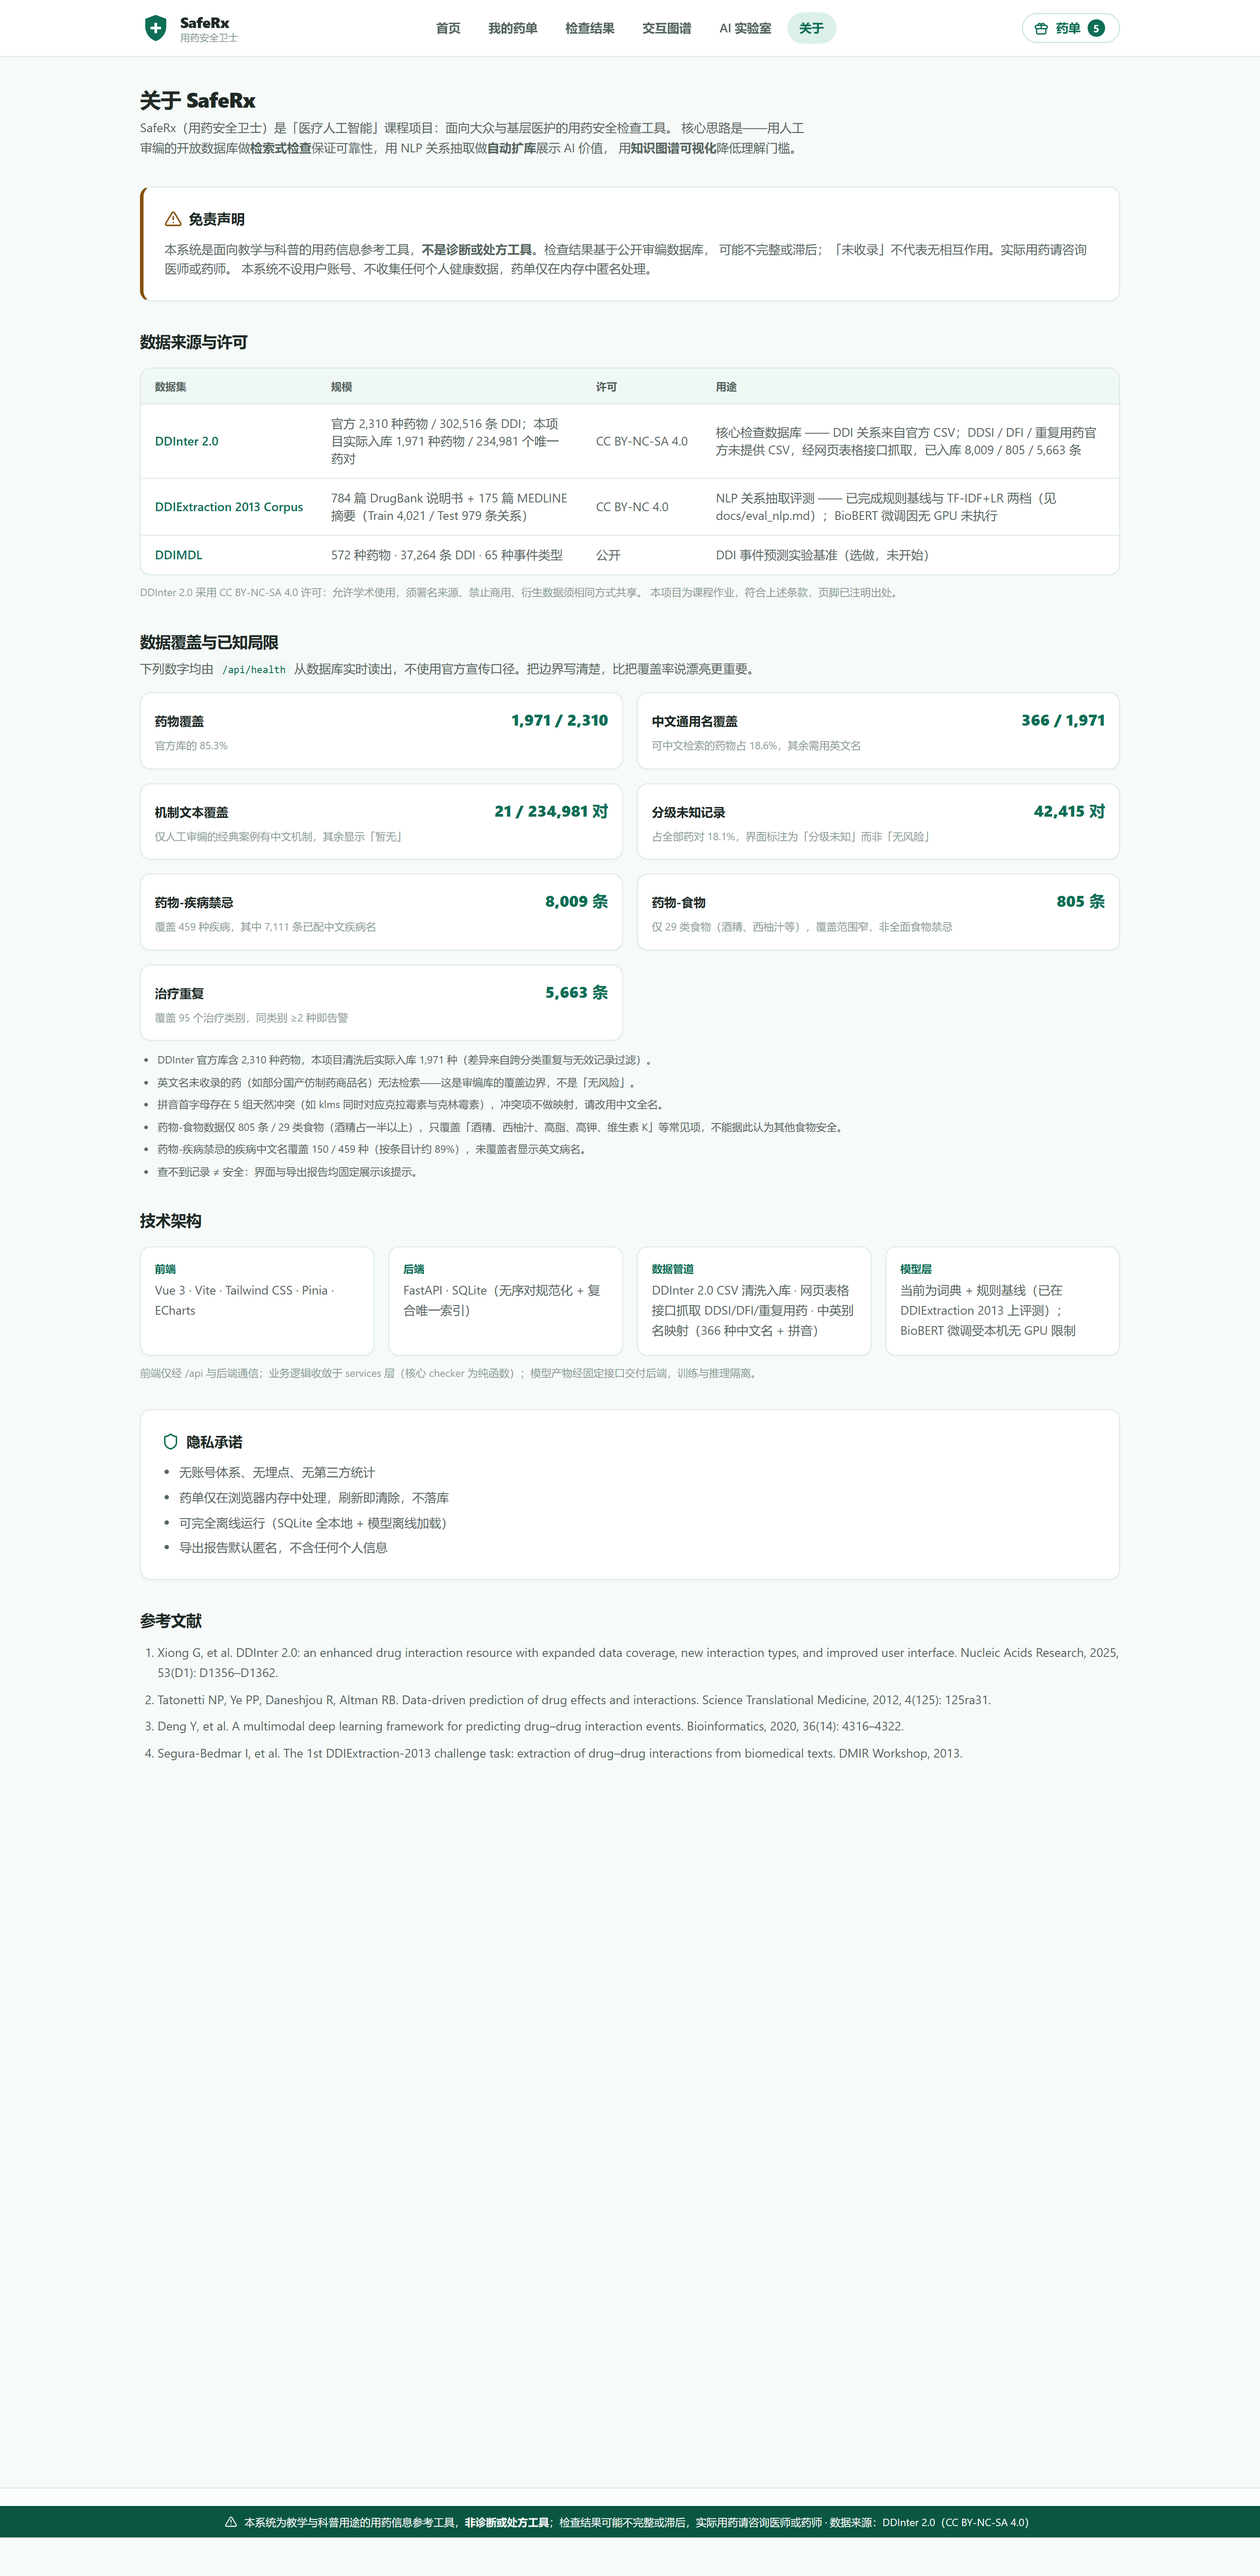
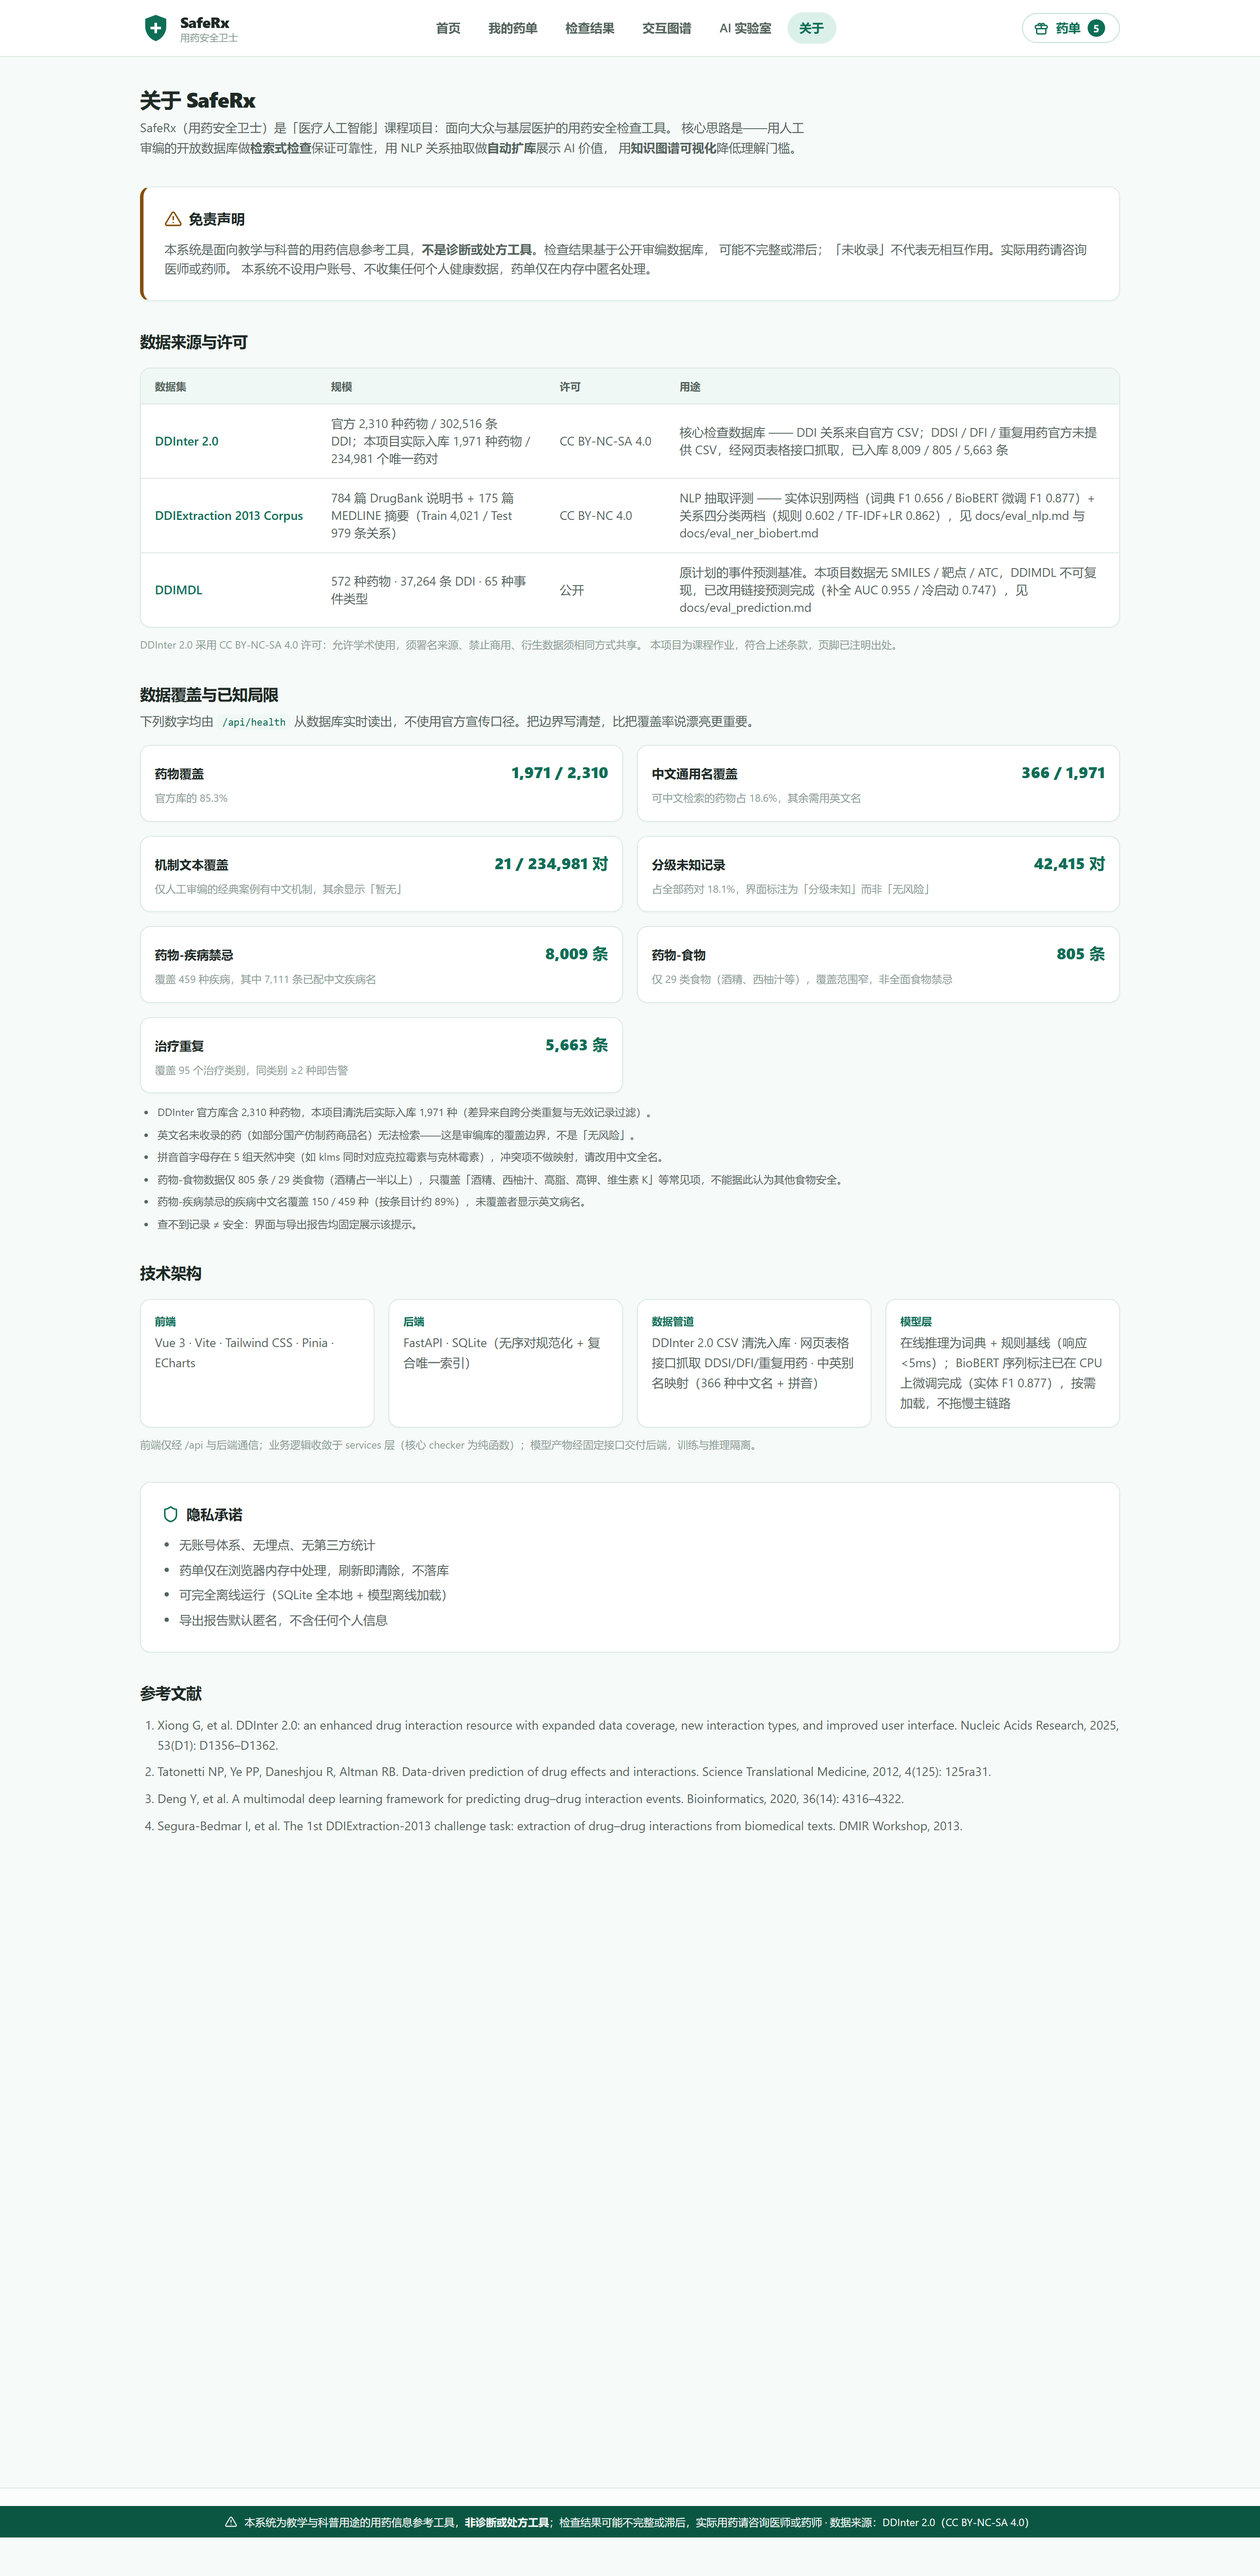
fix(web): 关于页三处过时文案（BioBERT 未执行/DDIMDL 未开始/366 硬编码）改为与现状一致；结果页未收录提示补本项目入库口径；截图脚本禁用代理

diff --git a/saferx/frontend/src/views/AboutView.vue b/saferx/frontend/src/views/AboutView.vue
@@ -23,13 +23,13 @@ const dataSources = computed(() => [
     name: 'DDIExtraction 2013 Corpus',
     scale: '784 篇 DrugBank 说明书 + 175 篇 MEDLINE 摘要（Train 4,021 / Test 979 条关系）',
     license: 'CC BY-NC 4.0',
-    usage: 'NLP 关系抽取评测 —— 已完成规则基线与 TF-IDF+LR 两档（见 docs/eval_nlp.md）；BioBERT 微调因无 GPU 未执行'
+    usage: 'NLP 抽取评测 —— 实体识别两档（词典 F1 0.656 / BioBERT 微调 F1 0.877）+ 关系四分类两档（规则 0.602 / TF-IDF+LR 0.862），见 docs/eval_nlp.md 与 docs/eval_ner_biobert.md'
   },
   {
     name: 'DDIMDL',
     scale: '572 种药物 · 37,264 条 DDI · 65 种事件类型',
     license: '公开',
-    usage: 'DDI 事件预测实验基准（选做，未开始）'
+    usage: '原计划的事件预测基准。本项目数据无 SMILES / 靶点 / ATC，DDIMDL 不可复现，已改用链接预测完成（补全 AUC 0.955 / 冷启动 0.747），见 docs/eval_prediction.md'
   }
 ])
 
@@ -54,12 +54,12 @@ const references = [
   'Segura-Bedmar I, et al. The 1st DDIExtraction-2013 challenge task: extraction of drug–drug interactions from biomedical texts. DMIR Workshop, 2013.'
 ]
 
-const stack = [
+const stack = computed(() => [
   { name: '前端', detail: 'Vue 3 · Vite · Tailwind CSS · Pinia · ECharts' },
   { name: '后端', detail: 'FastAPI · SQLite（无序对规范化 + 复合唯一索引）' },
-  { name: '数据管道', detail: 'DDInter 2.0 CSV 清洗入库 · 网页表格接口抓取 DDSI/DFI/重复用药 · 中英别名映射（366 种中文名 + 拼音）' },
-  { name: '模型层', detail: '当前为词典 + 规则基线（已在 DDIExtraction 2013 上评测）；BioBERT 微调受本机无 GPU 限制' }
-]
+  { name: '数据管道', detail: `DDInter 2.0 CSV 清洗入库 · 网页表格接口抓取 DDSI/DFI/重复用药 · 中英别名映射（${fmt(stats.value?.drugs_with_cn)} 种中文名 + 拼音）` },
+  { name: '模型层', detail: '在线推理为词典 + 规则基线（响应 <5ms）；BioBERT 序列标注已在 CPU 上微调完成（实体 F1 0.877），按需加载，不拖慢主链路' }
+])
 </script>
 
 <template>

diff --git a/saferx/frontend/src/views/CheckResultView.vue b/saferx/frontend/src/views/CheckResultView.vue
@@ -373,7 +373,7 @@ ${dupliBlock}
             <svg class="w-4 h-4 shrink-0 mt-px" viewBox="0 0 24 24" fill="none" stroke="currentColor" stroke-width="2">
               <circle cx="12" cy="12" r="10" /><path d="M12 16v-4M12 8h.01" stroke-linecap="round" />
             </svg>
-            {{ report.coverage_note }} 数据库收录 2,310 种已批准药物，「未收录」不代表无相互作用——这是审编数据库方法论的边界。
+            {{ report.coverage_note }} 本项目入库 1,971 种药物（DDInter 官方库 2,310 种），「未收录」不代表无相互作用——这是审编数据库方法论的边界。
           </p>
         </div>
       </section>

diff --git a/saferx/deploy/capture_screenshots.py b/saferx/deploy/capture_screenshots.py
@@ -119,6 +119,10 @@ def main() -> int:
             f"--user-data-dir={profile}",
             "--hide-scrollbars",
             "--disable-gpu",
+            # 本机开了 VPN 时，系统代理会把 127.0.0.1 也代理掉，导致截图全是"拒绝连接"。
+            # 显式禁用代理，保证直连本地服务。
+            "--no-proxy-server",
+            "--proxy-bypass-list=*",
             "--no-first-run",
             "--no-default-browser-check",
             "about:blank",
